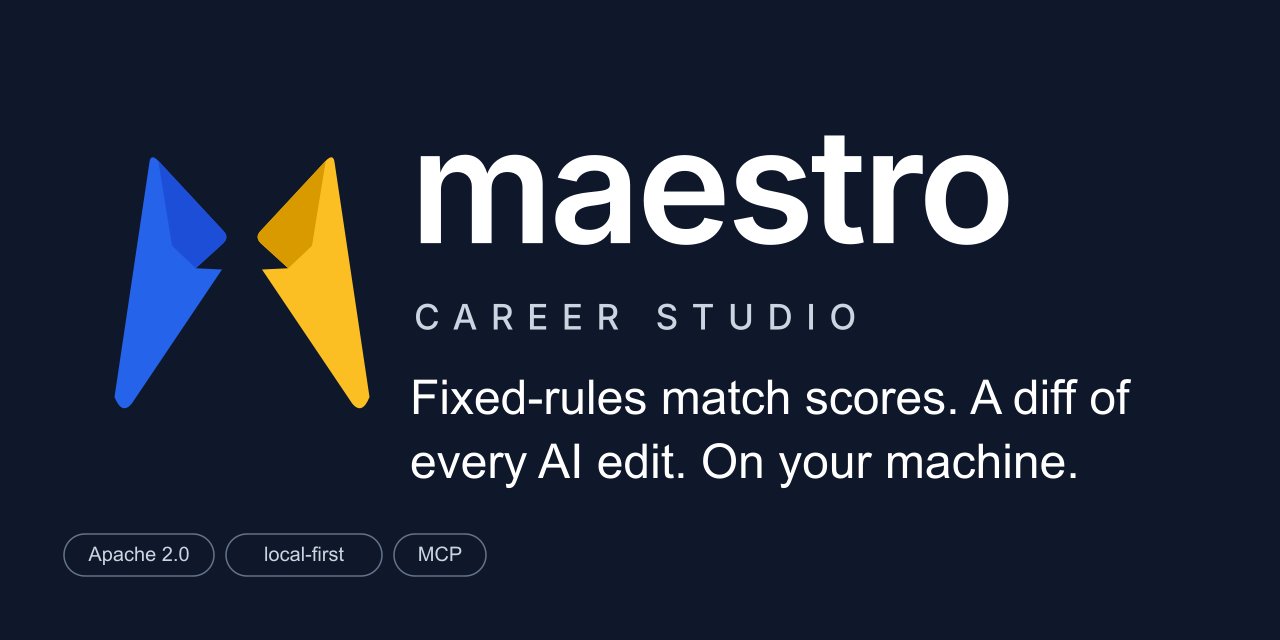
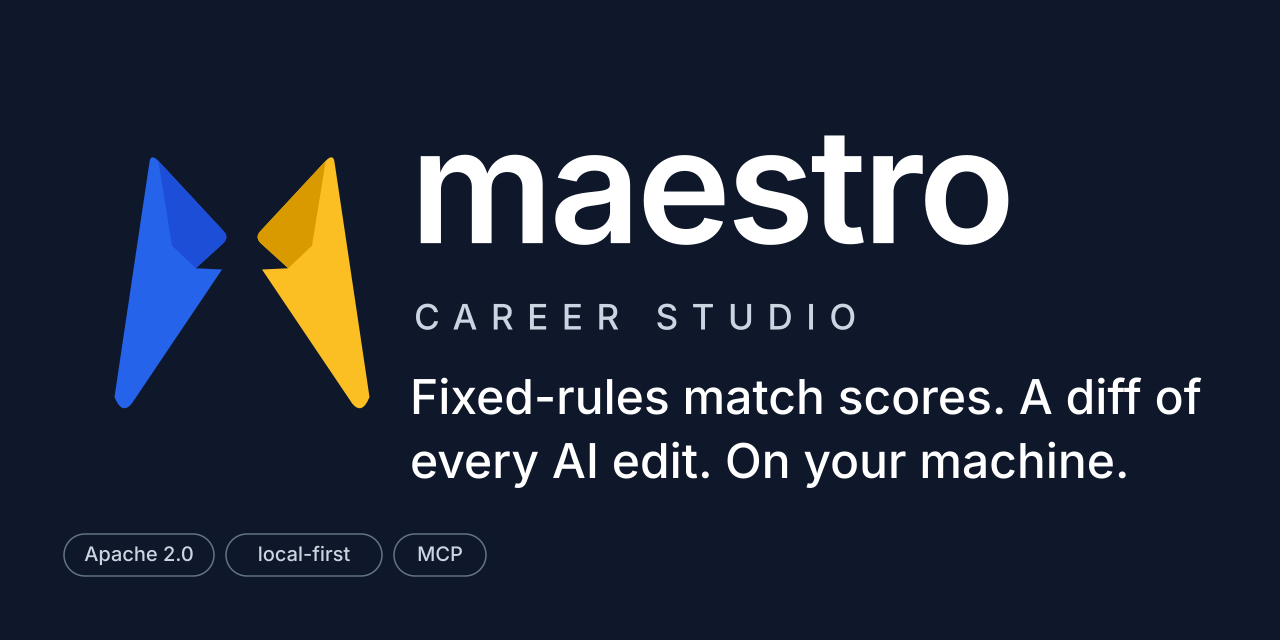
docs: finish the match score terminology, restore the preview's Inter type, drop a stale CONTRIBUTING claim (review of aa6695c8)

diff --git a/backend/tests/test_frontend_jobs_honest_words.py b/backend/tests/test_frontend_jobs_honest_words.py
@@ -187,7 +187,7 @@ def test_ats_words_say_what_the_engine_measures():
     assert '"Add it"' not in words
 
 
-# --- Match score, spelled out as our estimate ---------------------------------------
+# --- Match score, explained as a comparison using fixed rules -----------------
 
 
 def test_the_ats_score_is_our_estimate_everywhere_it_is_explained():

diff --git a/UBIQUITOUS_LANGUAGE.md b/UBIQUITOUS_LANGUAGE.md
@@ -52,8 +52,8 @@ and the screen speaks plainly ("item", "bullet", "Career history"). Do not
 
 | Term | Definition | On screen | Aliases to avoid in code and prose |
 | --- | --- | --- | --- |
-| **ATS Score** | The engine's rating of one resume against one job | ATS score (spelled out once per surface as our estimate) | score, match score, fit score |
-| **Composite** | The single headline number an ATS score rolls up to | ATS score (the headline number) | overall, total, final score |
+| **Match score** | Maestro's own fixed-rules score of one resume against one job | Match score | score, fit score, ATS score (implies an employer's applicant tracking system computed it) |
+| **Composite** | The single headline number a match score rolls up to | Match score (the headline number) | overall, total, final score |
 | **Gap** | A job requirement the resume does not evidence | gap | miss, weakness, hole |
 | **Health Report** | The deterministic quality check on a resume, independent of any job | Health report; Check health, Check again | lint report, health check, audit |
 | **Evidence Level** | How directly a bullet supports a claim — direct, analogue, or weaker | — | strength, confidence, tier |
@@ -113,8 +113,8 @@ and the screen speaks plainly ("item", "bullet", "Career history"). Do not
 - One **Job** may have many **Applications**; each **Application** targets exactly one **Job**
 - An **Application** is produced from one **Base Resume**, optionally via a **Tailoring Session**
 - Each edit to a resume records one **Resume Version**
-- An **ATS Score** rates one resume against one **Job**; a **Health Report** rates a resume alone
-- An **ATS Score** yields one **Composite** and zero or more **Gaps**
+- A **Match score** rates one resume against one **Job**; a **Health Report** rates a resume alone
+- A **Match score** yields one **Composite** and zero or more **Gaps**
 - A **Deprecation Ledger** row names exactly one **Removal Trigger** — a row without one is a design bug, not a migration
 
 ## Example dialogue
@@ -129,12 +129,12 @@ and the screen speaks plainly ("item", "bullet", "Career history"). Do not
 
 > **Dev:** "And once they pick a **Job**, the tailoring happens in a **Tailoring Session**?"
 
-> **Domain expert:** "Unless they use **Quick Tailor**, which plans the resolutions from their saved profile and lands straight on the **Application** — a **Tailoring Session** still runs underneath, they just never see the checkpoint. Either way the **Application** owns the **Artifacts** — the actual PDFs — and the **ATS Score** rates the tailored resume against that one job. Don't confuse it with the **Health Report**: that one never looks at a job at all."
+> **Domain expert:** "Unless they use **Quick Tailor**, which plans the resolutions from their saved profile and lands straight on the **Application** — a **Tailoring Session** still runs underneath, they just never see the checkpoint. Either way the **Application** owns the **Artifacts** — the actual PDFs — and the **Match score** rates the tailored resume against that one job. Don't confuse it with the **Health Report**: that one never looks at a job at all."
 
 ## Flagged ambiguities
 
 - **"Preview" means two unrelated things.** A *Template Preview* is a sample-resume PDF produced by template validation; an *Application Preview* is a raster of a real application's output. Today's work found the first sitting in a directory everyone assumed held assets. Always qualify which.
-- **"Score" is overloaded.** An *ATS Score* needs a job; a *Health Report* score does not. Saying "the score dropped" without qualifying is the single most confusing sentence in this domain. Never use bare "score".
+- **"Score" is overloaded.** A *Match score* needs a job; a *Health Report* score does not. Saying "the score dropped" without qualifying is the single most confusing sentence in this domain. Never use bare "score".
 - **"Session" is overloaded three ways** — a *Tailoring Session* (a domain entity), a chat session, and an agent working session. Only the first is domain vocabulary; qualify the others or avoid the word.
 - **"Variant" is a rejected term.** It named a feature that was designed and then cut on evidence. Do not reintroduce it: for an alternative resume say *duplicate*, and for history say *Resume Version*.
 - **"Master" is dead.** It was a reserved base-resume slug, superseded by the Career KB. It still appears in reserved-slug guards. Never use it for the KB, the profile, or a resume.

diff --git a/KNOWN_ISSUES.md b/KNOWN_ISSUES.md
@@ -18,7 +18,7 @@ Maintainers: the engineering detail behind every item here lives in
 
 These have real coverage and are unlikely to move under you.
 
-- **ATS scoring is deterministic.** No LLM anywhere in the scoring path. The
+- **Match scoring is deterministic.** No LLM anywhere in the scoring path. The
   same resume, job description and config version produce a byte-identical
   0–100 score and breakdown, every time. This is the part most worth trusting.
 - **Rendering.** Both engines (LaTeX and Typst) compile the bundled templates,
@@ -153,7 +153,7 @@ does not.
   is locked". It is user-started and rare; the workaround is not to use the app
   while one is running. The few seconds a tailoring
   session spends enriching gaps behave the same way.
-- **A stored ATS score cannot be exactly reproduced.** Scoring is deterministic
+- **A stored match score cannot be exactly reproduced.** Scoring is deterministic
   given its inputs, but a stored score does not record its as-of date, which
   versions of the résumé and job description it saw, or the embedding model —
   and recency is computed against *today* — so the same document can score
@@ -204,7 +204,7 @@ disagree, open a discussion rather than a PR.
 - **No hosted version, and no multi-tenancy.** Adding either would reverse the
   main design property and reintroduce the data-exposure risk this project was
   built to avoid.
-- **The ATS score does not predict any real ATS.** It is our own deterministic,
+- **The match score does not predict any real ATS.** It is our own deterministic,
   reproducible model. Anyone claiming to predict Workday's or Greenhouse's
   internal scoring is guessing. The narrowness is the point.
 - **No built-in job-board search or scraper.** The app captures postings you or

diff --git a/CONTRIBUTING.md b/CONTRIBUTING.md
@@ -54,10 +54,9 @@ if you think the reasoning has expired.
 1. **Unchecked volume auto-apply or bulk blast.** Full automation mode is opt-in,
    capped, limited to jobs the user queued and to answers that pass every check;
    unscored, uncapped or unqueued applying stays refused. Employers now filter for applications
-   that read as machine-generated, and the flagship high-volume project in this
-   space is archived. Shipping a blast tool would aim the product at the one
-   market trend most against it.
-2. **Any claim that our ATS Score predicts a real ATS.** Ours is deterministic,
+   that read as machine-generated. A blast tool prioritizes volume over the
+   stronger, reviewed applications Maestro is built to support.
+2. **Any claim that our match score predicts a real ATS.** Ours is deterministic,
    versioned and reproducible — that is the entire claim, and it is defensible
    precisely because it is narrow. One overclaim discredits the rest of it.
 3. **A hosted, multi-tenant SaaS version.** Local-only *is* the differentiator

diff --git a/README.md b/README.md
@@ -380,8 +380,7 @@ that read as machine-written — so the leverage is in depth per application.
 - **Tailoring** — adjusting a base resume to one job, using only things you
   actually did.
 - **Match score** — Maestro's comparison of your resume with a saved job
-  description. It is not an employer's score
-  or a prediction of an interview.
+  description. It is not an employer's score or a prediction of an interview.
 - **AI service** — OpenAI or Gemini, whichever you choose.
 
 ### 1. Build your career history first (once)

diff --git a/CHANGELOG.md b/CHANGELOG.md
@@ -47,6 +47,7 @@ None.
 
 ### Fixed
 
+- The glossary and package description use match score; the social preview restores Inter Medium.
 - First starts without TeX render the demo resume with Typst; a failed seed render shows its reason.
 - Windows child processes keep the system environment needed for networking, including backup and update commands.
 
